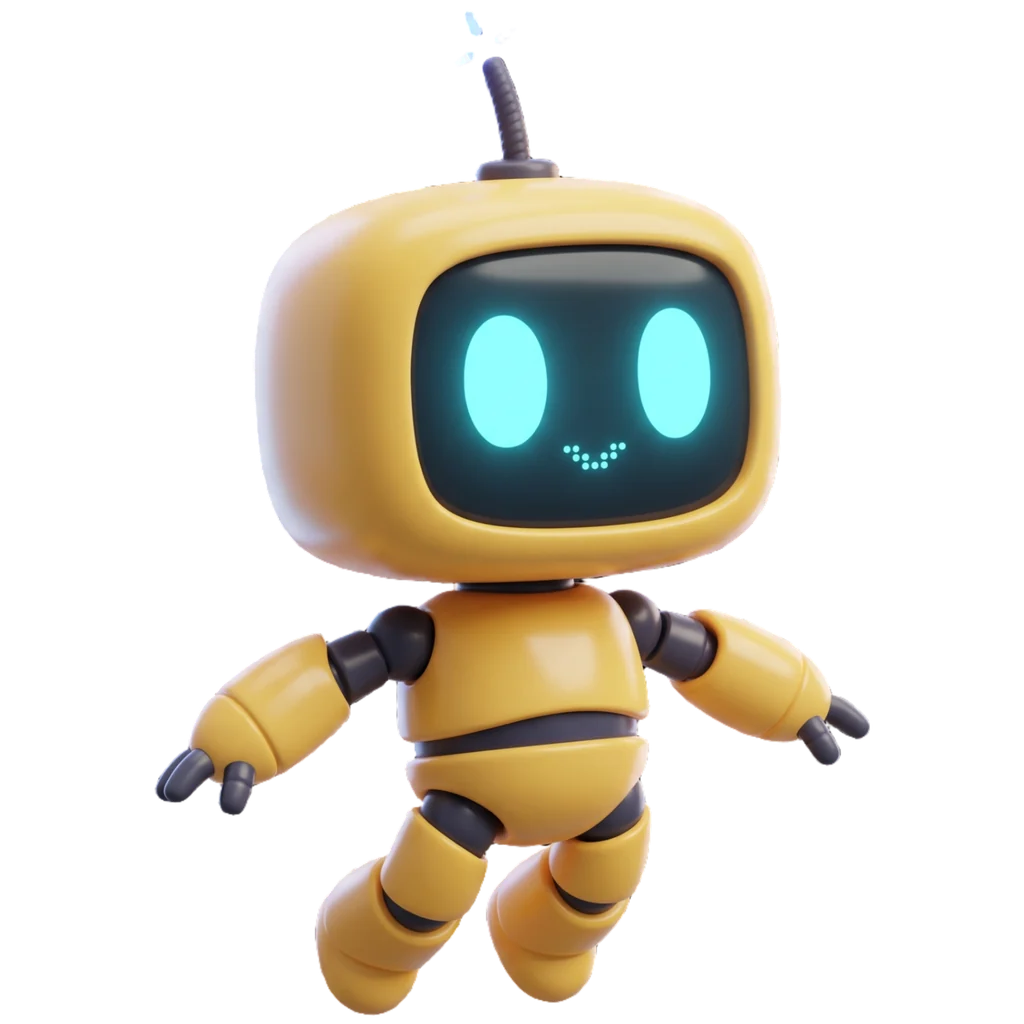
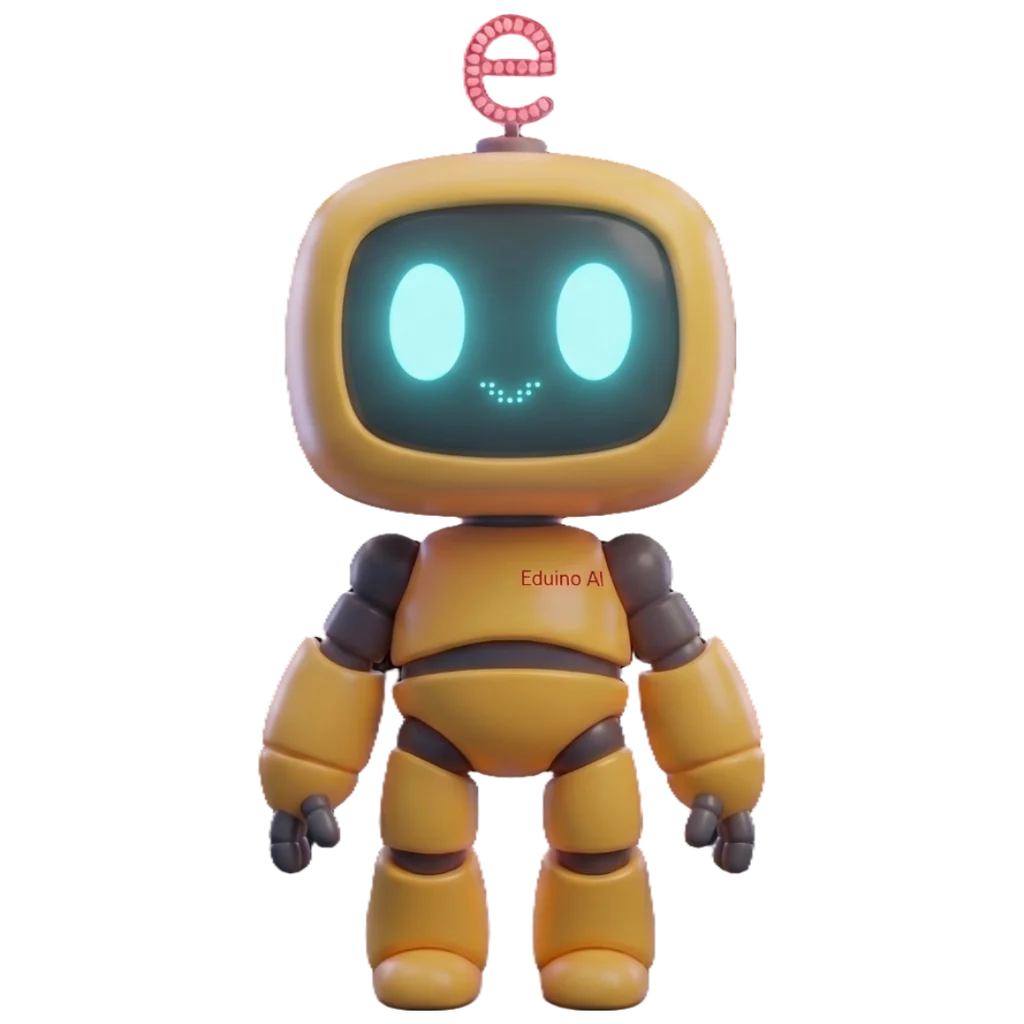
새 EDDIE 마스코트 확정 + 9부위 관절 퍼펫 리그
- 마스터 정리: eddie-hero.png.png→eddie-hero(신캐릭터, 구버전 덮어씀),
  tpose→_master/ 보관, 확장자중복(.png.png) 수정
- rig 9조각: 트림 상태로 올라온 부위들을 마스터(tpose) 대조 자동 매칭으로
  1080 풀캔버스 제자리 복원 → WebP(전체 107KB). head=안테나 분리본 사용
- eddieRig.js: 9부위 관절 퍼펫(머리 끄덕·안테나 흔들·2단 팔(어깨+팔꿈치)·
  다리 통통). 부위 누락 시 포즈/히어로 폴백 유지
- CSS: rig2 부위 레이어·관절 회전축(캔버스 %)·다부위 모션 키프레임

빌드·조립 검증 통과(조각→마스터 정합 일치)

diff --git a/src/app/eddieRig.js b/src/app/eddieRig.js
@@ -1,9 +1,18 @@
-// eddieRig.js — 움직이는 EDDIE.
-// 우선순위: ① rig 부위(body/head/arm-l/arm-r/antenna) 5장 → 퍼펫 리깅
-//          ② 풀바디 포즈(idle/wave/cheer) → 부드러운 교차 애니(둥실+손흔들+만세)
-//          ③ 둘 다 없으면 정지 히어로(eddie-hero.webp) 폴백  (전부 전체 둥실 모션)
+// eddieRig.js — 움직이는 EDDIE (관절 퍼펫).
+// 우선순위: ① rig 9부위(머리/몸통/안테나/2단 팔×2/다리×2) → 관절 퍼펫(끄덕·팔흔들·안테나·통통)
+//          ② 풀바디 포즈(idle/wave/cheer) → 교차 애니
+//          ③ 둘 다 없으면 정지 히어로(eddie-hero) 폴백
+// 모든 부위는 같은 1080 캔버스에 '제자리'로 렌더되어 inset:0 로 겹치면 정확히 조립된다.
+// 회전축(transform-origin)은 CSS 에 캔버스 % 로 지정(관절 위치).
+
 const RIG_BASE = '/brand/eddie/rig/';
-const PARTS = { 'er-arm-l': 'arm-l.webp', 'er-body': 'body.webp', 'er-arm-r': 'arm-r.webp', 'er-head': 'head.webp', 'er-antenna': 'antenna.webp' };
+// 셀렉터 → 파일명 (좌/우 팔은 래퍼 안에 상/하완)
+const RIG_SRC = {
+  '.er-leg-l': 'leg-l', '.er-leg-r': 'leg-r', '.er-body': 'body',
+  '.er-arm-l > .er-aup': 'arm-l-up', '.er-arm-l .er-alow': 'arm-l-low',
+  '.er-arm-r > .er-aup': 'arm-r-up', '.er-arm-r .er-alow': 'arm-r-low',
+  '.er-head': 'head', '.er-antenna': 'antenna',
+};
 const POSE_BASE = '/brand/eddie/';
 const POSES = ['idle', 'wave', 'cheer'];
 const FALLBACK = '/brand/eddie/eddie-hero.webp';
@@ -11,6 +20,7 @@ const FALLBACK = '/brand/eddie/eddie-hero.webp';
 export function mountEddieRig(container, { hero } = {}) {
   const el = document.createElement('div');
   el.className = 'eddie-rig';
+
   // 방별 코스튬: hero 한 장만 둥실(리깅/포즈 건너뜀)
   if (hero) {
     el.innerHTML = `<img class="er-fallback" alt="EDDIE" />`;
@@ -18,41 +28,51 @@ export function mountEddieRig(container, { hero } = {}) {
     container.appendChild(el);
     return el;
   }
+
   el.innerHTML =
-    Object.keys(PARTS).map((cls) => `<img class="er-part ${cls}" alt="" />`).join('') +
+    // ① 관절 퍼펫 (뒤→앞 레이어 순서)
+    `<img class="erp er-leg-l" alt="" />
+     <img class="erp er-leg-r" alt="" />
+     <img class="erp er-body" alt="" />
+     <div class="er-arm er-arm-l"><img class="erp er-aup" alt="" /><div class="er-fore er-fore-l"><img class="erp er-alow" alt="" /></div></div>
+     <div class="er-arm er-arm-r"><img class="erp er-aup" alt="" /><div class="er-fore er-fore-r"><img class="erp er-alow" alt="" /></div></div>
+     <img class="erp er-head" alt="" />
+     <img class="erp er-antenna" alt="" />` +
+    // ② 풀바디 포즈 + ③ 폴백
     POSES.map((p) => `<img class="er-pose er-pose-${p}" alt="" />`).join('') +
     `<img class="er-fallback" alt="EDDIE" />`;
   container.appendChild(el);
 
-  // ① rig 부위 (모두 있으면 리깅)
-  let rigLoaded = 0; const rigNeed = Object.keys(PARTS).length; let rigFailed = false;
-  for (const [cls, file] of Object.entries(PARTS)) {
-    const img = el.querySelector('.' + cls);
-    img.onload = () => { if (rigFailed) return; if (++rigLoaded === rigNeed) el.classList.add('rigged'); };
-    img.onerror = () => { rigFailed = true; };
-    img.src = RIG_BASE + file;
+  // ① rig 부위 로드 — 전부 성공해야 퍼펫(rig2) 활성
+  const sels = Object.keys(RIG_SRC);
+  let need = sels.length, loaded = 0, failed = false;
+  for (const sel of sels) {
+    const img = el.querySelector(sel);
+    img.onload = () => { if (failed) return; if (++loaded === need) el.classList.add('rig2'); };
+    img.onerror = () => { if (!failed) { failed = true; settle(); } };
+    img.src = RIG_BASE + RIG_SRC[sel] + '.webp';
   }
 
-  // ② 풀바디 포즈
-  const loaded = new Set();
+  // ② 풀바디 포즈 (rig 실패 시 폴백)
+  const loadedPose = new Set();
   let pending = POSES.length;
   POSES.forEach((p) => {
     const img = el.querySelector('.er-pose-' + p);
-    img.onload = () => { loaded.add(p); settle(); };
+    img.onload = () => { loadedPose.add(p); settle(); };
     img.onerror = () => { settle(); };
     img.src = POSE_BASE + p + '.webp';
   });
-  function settle() { if (--pending > 0) return; if (!el.classList.contains('rigged') && loaded.has('idle')) startPoses(); }
+  function settle() { if (--pending > 0) return; if (!el.classList.contains('rig2') && loadedPose.has('idle')) startPoses(); }
 
-  // ③ 폴백
+  // ③ 폴백 정지 히어로
   el.querySelector('.er-fallback').src = FALLBACK;
 
   function startPoses() {
     el.classList.add('posed');
     const order = ['idle'];
-    if (loaded.has('wave')) order.push('wave');
+    if (loadedPose.has('wave')) order.push('wave');
     order.push('idle');
-    if (loaded.has('cheer')) order.push('cheer');
+    if (loadedPose.has('cheer')) order.push('cheer');
     const dur = { idle: 4200, wave: 1500, cheer: 1700 };
     const show = (p) => POSES.forEach((q) => {
       const im = el.querySelector('.er-pose-' + q); if (!im) return;

diff --git a/src/styles/main.css b/src/styles/main.css
@@ -1954,3 +1954,29 @@ button:focus-visible, a:focus-visible, .code-box:focus-visible, .lf-input:focus-
 .rgb-chip { width: 40px; height: 40px; border-radius: 11px; border: 3px solid rgba(255,255,255,.7); cursor: pointer;
   box-shadow: 0 4px 12px rgba(0,0,0,.22); transition: transform .12s; }
 .rgb-chip:hover { transform: scale(1.12); } .rgb-chip:active { transform: scale(.95); }
+
+/* ===== EDDIE 관절 퍼펫 (9부위 rig2) ===== */
+.eddie-rig .erp { position: absolute; inset: 0; width: 100%; height: 100%; object-fit: contain; opacity: 0; }
+.eddie-rig.rig2 .erp { opacity: 1; }
+.eddie-rig.rig2 .er-fallback, .eddie-rig.rig2 .er-pose { display: none; }
+.eddie-rig.rig2 .er-body { filter: drop-shadow(0 16px 26px rgba(0,0,0,.38)); }
+.er-arm, .er-fore { position: absolute; inset: 0; }      /* 래퍼: 캔버스 채워 자식이 제자리 유지 */
+
+/* 관절 회전축(캔버스 %) + 부드러운 다부위 모션 */
+.rig2 .er-antenna { transform-origin: 50% 15%; animation: erp-ant 2.3s ease-in-out infinite; }
+.rig2 .er-head    { transform-origin: 50% 52%; animation: erp-head 4.2s ease-in-out infinite; }
+.rig2 .er-arm-l   { transform-origin: 41% 54%; animation: erp-arml 3.4s ease-in-out infinite; }
+.rig2 .er-fore-l  { transform-origin: 30% 54%; animation: erp-forel 3.0s ease-in-out infinite; }
+.rig2 .er-arm-r   { transform-origin: 59% 53%; animation: erp-armr 3.6s ease-in-out infinite; }
+.rig2 .er-fore-r  { transform-origin: 70% 54%; animation: erp-forer 3.2s ease-in-out infinite; }
+.rig2 .er-leg-l   { transform-origin: 42% 70%; animation: erp-legl 4.0s ease-in-out infinite; }
+.rig2 .er-leg-r   { transform-origin: 58% 70%; animation: erp-legr 4.4s ease-in-out infinite; }
+
+@keyframes erp-ant   { 0%,100%{transform:rotate(-7deg)}   50%{transform:rotate(7deg)} }
+@keyframes erp-head  { 0%,100%{transform:rotate(-2.4deg)} 50%{transform:rotate(2.4deg)} }
+@keyframes erp-arml  { 0%,100%{transform:rotate(3deg)}    50%{transform:rotate(-4deg)} }
+@keyframes erp-forel { 0%,100%{transform:rotate(-3deg)}   50%{transform:rotate(7deg)} }
+@keyframes erp-armr  { 0%,100%{transform:rotate(-3deg)}   50%{transform:rotate(4deg)} }
+@keyframes erp-forer { 0%,100%{transform:rotate(3deg)}    50%{transform:rotate(-7deg)} }
+@keyframes erp-legl  { 0%,100%{transform:rotate(-1.6deg)} 50%{transform:rotate(1.6deg)} }
+@keyframes erp-legr  { 0%,100%{transform:rotate(1.6deg)}  50%{transform:rotate(-1.6deg)} }
